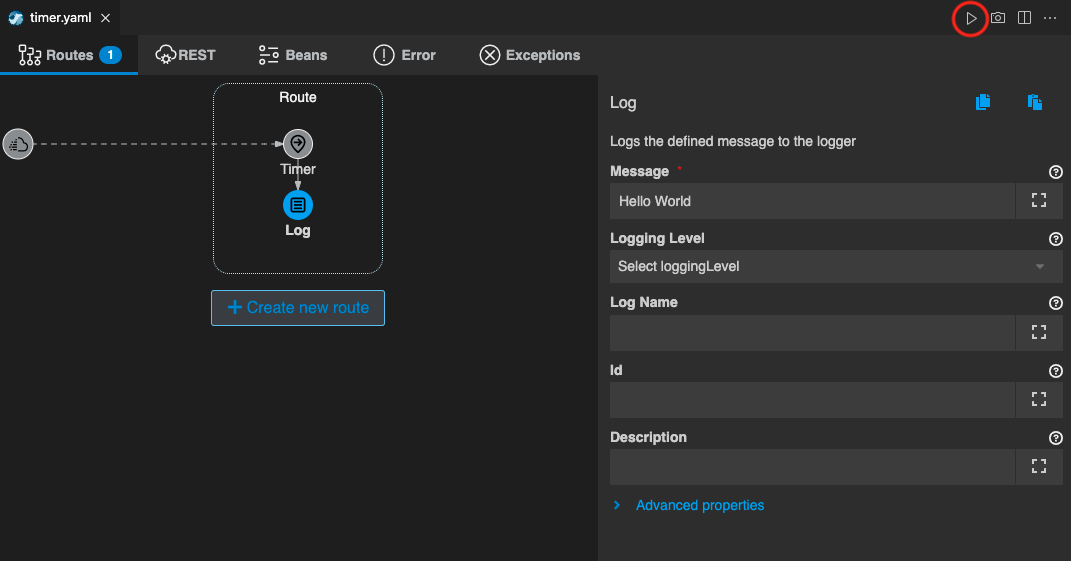
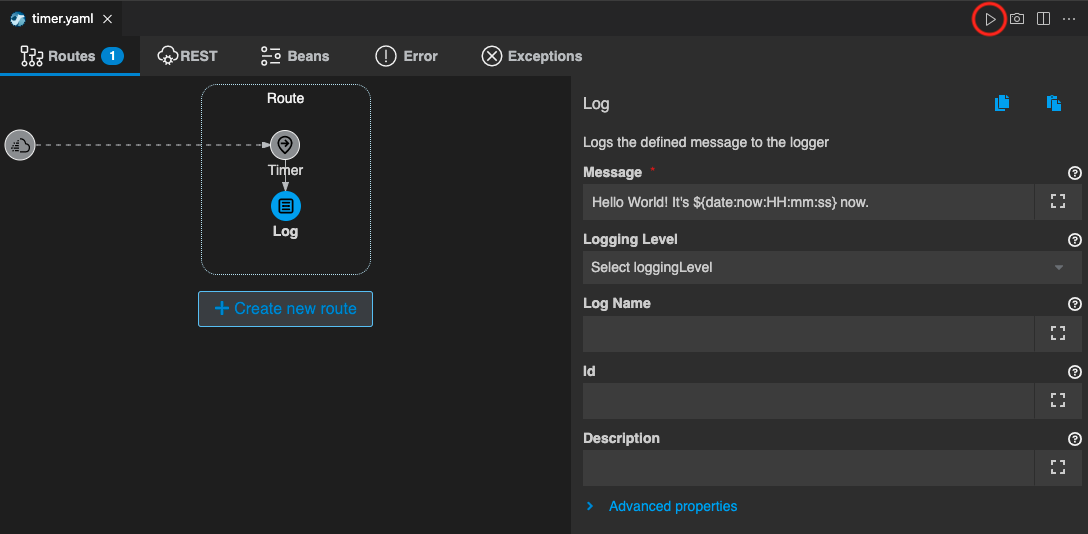
update

diff --git a/file-component.md b/file-component.md
@@ -3,6 +3,144 @@
 
 ### 1. 目的
 
-[File](https://camel.apache.org/components/{{ CAMEL_VERSION }}/timer-component.html) コンポーネントの内容を理解するとともに、Karavan Designer を使用した Camel K インテグレーション実装のイメージを把握することを目的とします。
+[File](https://camel.apache.org/components/{{ CAMEL_VERSION }}/file-component.html) コンポーネントの内容を理解します。
 
-### 2. Camel K インテグレーションの作成
+### 2. ファイルの取得・出力を行う
+
+VSCODE 左のエクスプローラー上で、右クリックをして、メニューから `新しいファイル` を選択し、ワークスペースのルートフォルダ直下に、`data` フォルダを作成します。
+
+さらに、data フォルダの配下に、`input`、`output` フォルダを作成します。
+
+次に、左のエクスプローラー上で、右クリックをして、メニューから `Karavan: Create Integration` を選択し、任意のファイル名で空のインテグレーションを作成をしてください。
+（ここでは、file というファイル名にしておきます。）
+
+![](images/02-file-001.png)
+![karavan]({% image_path 02-file-001.png %}){:width="300px"}
+
+`file.yaml` の Karavan Designer のGUIを開き、上部の `Create new route` をクリックして、Route を作成しましょう。
+
+`components` タブから `File` を探して選択をしてください。
+右上のテキストボックスに `File` と入力をすると、絞り込みができます。
+
+![](images/02-file-002.png)
+![karavan]({% image_path 02-file-002.png %}){:width="600px"}
+
+Route の source として、File コンポーネントが配置されます。
+Route の File シンボルをクリックすると、右側にプロパティが表示されますので、確認してください。
+
+Parameters が色々ありますが、必須項目は `Directory Name` のみです。
+今回は、他はそのままで構いません。
+
+* **Directory Name**: data/input
+
+![](images/02-file-003.png)
+![karavan]({% image_path 02-file-003.png %}){:width="800px"}
+
+次に、取得したファイルの中身を表示するための Log を追加します。
+Route にマウスカーソルを持っていくと、File シンボルの下に小さな＋ボタンが現れますので、それをクリックし、`Routing` のタブから `Log` を探して選択をしてください。
+
+![](images/02-file-004.png)
+![karavan]({% image_path 02-file-004.png %}){:width="600px"}
+
+`Log` のシンボルが File に続いて配置されます。
+
+File コンポーネントで取得した内容は、Message の `body` に格納されています。
+Log プロパティ の `Message` に `${body}` と入力をしてください。
+
+![](images/02-file-005.png)
+![karavan]({% image_path 02-file-005.png %}){:width="800px"}
+
+ファイルを出力して格納する処理を作成します。
+Log シンボルの下の＋ボタンをクリックして、`components` タブから `File` を探して選択をしてください。
+
+File の プロパティが開きますので、以下を入力します。
+他はそのままで構いません。
+
+* **Directory Name**: data/output
+
+![](images/02-file-006.png)
+![karavan]({% image_path 02-file-006.png %}){:width="800px"}
+
+最後に、テスト用のテキストファイルを作成します。
+左のエクスプローラー上で、右クリックをして、メニューから `新しいファイル` を選択し、`test.txt` を作成します。
+
+ファイルの中身は、
+
+```
+Hello World!
+```
+
+としてください。
+
+それでは、実際に動かしてみます。
+
+`file.yaml` をもう一度開き、右上の **▷** の実行ボタンを押してください。
+（もしくは、左のエクスプローラでファイル名を右クリックして、`Karavan: Run File` を選択してください）
+
+![](images/02-file-007.png)
+![karavan]({% image_path 02-file-007.png %}){:width="800px"}
+
+ターミナルが開き、作成したインテグレーションが JBang を通して実行されます。
+特にエラーなく実行されたら、先ほど作成した `test.txt` を `data/input` フォルダに移動して格納をしてください。
+
+ファイルが所定のフォルダに格納されると、インテグレーションが実行されて、コンソールに Log が表示され、`data/output` にファイルが格納されます。
+（インプットのファイルは、`data/input` 配下に `.camel` フォルダが作成され、そちらに移動します）
+
+ファイルが作成されたら、ファイルの中身を確認してください。
+
+![](images/02-file-008.png)
+![karavan]({% image_path 02-file-008.png %}){:width="800px"}
+
+確認後、`Ctrl+C` もしくは、ターミナル右上のゴミ箱のアイコンをクリックして、終了してください。
+
+
+
+### 3. ファイルの内容に追記をして出力をする
+
+ここでは、取得したファイルの内容に、追記をして出力する処理を、先ほど作成したインテグレーションに追加をしていきます。
+
+もう一度、`file.yaml` の Karavan Designer のGUIを開きます。
+
+Route の 出力側の File シンボルにマウスカーソルを持っていくと、左上に小さく `→` ボタンが表示されますので、クリックします。
+
+![](images/02-file-009.png)
+![karavan]({% image_path 02-file-009.png %}){:width="400px"}
+
+続いて、`Transformation` タブから `Set Body` を探して選択をしてください。
+右上のテキストボックスに `Set Body` と入力をすると、絞り込みができます。
+
+![](images/02-file-010.png)
+![karavan]({% image_path 02-file-010.png %}){:width="600px"}
+
+`Log` と `File` の間に、`Set Body` が追加されました。
+
+`Set Body` のシンボルをクリックすると、右側にプロパティが表示されますので、
+Parameters 項目に、以下の内容を設定してください。
+
+ * **Language**: simple ([simple](https://camel.apache.org/components/{{ CAMEL_VERSION }}/languages/simple-language.html) についての詳細はこちらを参照ください)
+ * **Expression**: 
+
+```
+${body}
+It's ${date:now:HH:mm:ss} now.
+```
+
+![](images/02-file-011.png)
+![karavan]({% image_path 02-file-011.png %}){:width="800px"}
+
+再び、`file.yaml` を開き、右上の **▷** の実行ボタンを押してください。
+（もしくは、左のエクスプローラでファイル名を右クリックして、`Karavan: Run File` を選択してください）
+
+ターミナルが開き、作成したインテグレーションが JBang を通して実行されます。
+特にエラーなく実行されたら、もう一度、 `test.txt` を `data/input` フォルダに移動して格納をしてください。
+
+ファイルが所定のフォルダに格納されると、インテグレーションが実行されて、コンソールに Log が表示され、`data/output` にファイルが格納されます。
+（インプットのファイルは、`data/input` 配下に `.camel` フォルダが作成され、そちらに移動します）
+
+ファイルが作成されたら、`data/input/.camel`、`data/output` の両フォルダのファイルの中身を確認してください。
+`data/output` に格納されたファイルには、現在時刻が `Set Body` で追記されて出力されています。
+
+![](images/02-file-012.png)
+![karavan]({% image_path 02-file-012.png %}){:width="800px"}
+
+確認後、`Ctrl+C` もしくは、ターミナル右上のゴミ箱のアイコンをクリックして、終了してください。

diff --git a/timer-component.md b/timer-component.md
@@ -5,7 +5,7 @@
 
 [Timer](https://camel.apache.org/components/{{ CAMEL_VERSION }}/timer-component.html) コンポーネントの内容を理解するとともに、Karavan Designer を使用した Camel K インテグレーション実装のイメージを把握することを目的とします。
 
-### 2. Camel K インテグレーションの作成
+### 2. Hello World の作成
 
 まず、任意のフォルダに VSCODE のワークスペースを作成します。
 
@@ -63,7 +63,13 @@ Timer に続く Step を定義することができます。
 
 `Log` のシンボルが Timer に続いて配置されます。
 
-Log プロパティ の `Message` に `Hello World` と入力をしてください。
+Log プロパティ の `Message` に 
+
+```
+Hello World! It's ${date:now:HH:mm:ss} now.
+```
+
+と入力をしてください。`${date:now:HH:mm:ss}` は、現在の時刻を HH:mm:ss の形式で表示します。
 
 それでは、実際に動かしてみます。
 右上の **▷** の実行ボタンを押してください。
